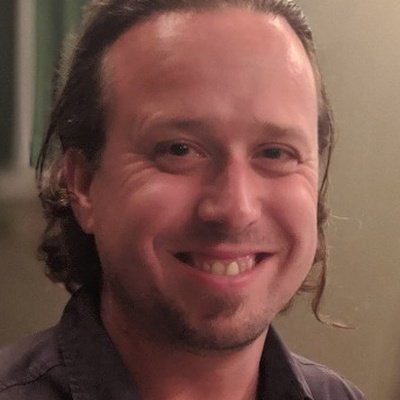
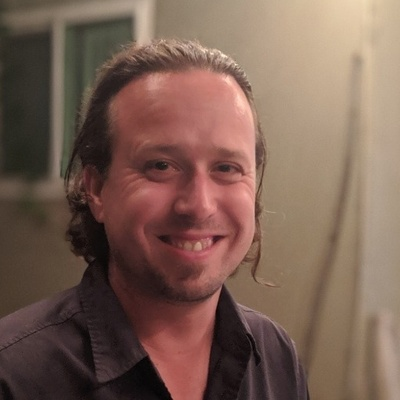
fix(headshot): update ryan_anthony headshot & deployment

diff --git a/src/data/sampleData.js b/src/data/sampleData.js
@@ -1,4 +1,4 @@
-export const BUILD_TIMESTAMP = 1788755311571;
+export const BUILD_TIMESTAMP = 1788755424519;
 // Real Wedding Guest List Data - Auto-updated via Host Admin Suite
 export const COHORT_COLORS = {
   "The Couple": "#38bdf8",

diff --git a/scripts/recalibrate_with_opencv.py b/scripts/recalibrate_with_opencv.py
@@ -45,7 +45,7 @@ GUEST_CALIBRATION_SPECS = {
     "nichole_remmert": {"raw_source": "raw_sources/nichole_remmert__orig_media.jpg", "cx_pct": 0.675, "cy_pct": 0.585, "face_h_px": 400},
     "roopak_kandasamy": {"raw_source": "raw_sources/roopak_kandasamy__orig_media.jpg", "cx_pct": 0.550, "cy_pct": 0.400, "face_h_px": 260},
     "romana_rajput": {"raw_source": "raw_sources/romana_rajput__orig_media__1788716129.jpg", "cx_pct": 0.585, "cy_pct": 0.460, "face_h_px": 145},
-    "ryan_anthony": {"raw_source": "raw_sources/ryan_anthony__orig_media__1788715848.jpg", "cx_pct": 0.460, "cy_pct": 0.400, "face_h_px": 203},
+    "ryan_anthony": {"raw_source": "raw_sources/ryan_anthony__orig_media.jpg", "cx_pct": 0.500, "cy_pct": 0.400, "face_h_px": 300},
     "steve_nares": {"raw_source": "raw_sources/steve_nares__orig_media__1788683169013.jpg", "cx_pct": 0.500, "cy_pct": 0.450, "face_h_px": 160},
     "toyo_tsujino": {"raw_source": "raw_sources/toyo_tsujino__orig_media__1788685317722.jpg", "cx_pct": 0.510, "cy_pct": 0.360, "face_h_px": 358},
     "poukhan_philavanh_anthony": {"raw_source": "raw_sources/poukhan_philavanh_anthony__orig_media__1788716292.jpg", "cx_pct": 0.490, "cy_pct": 0.500, "face_h_px": 200},
